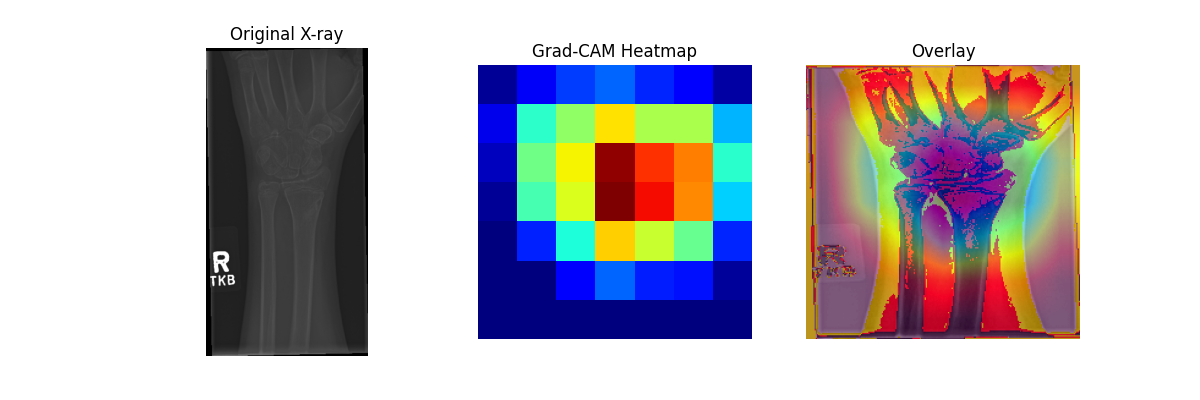
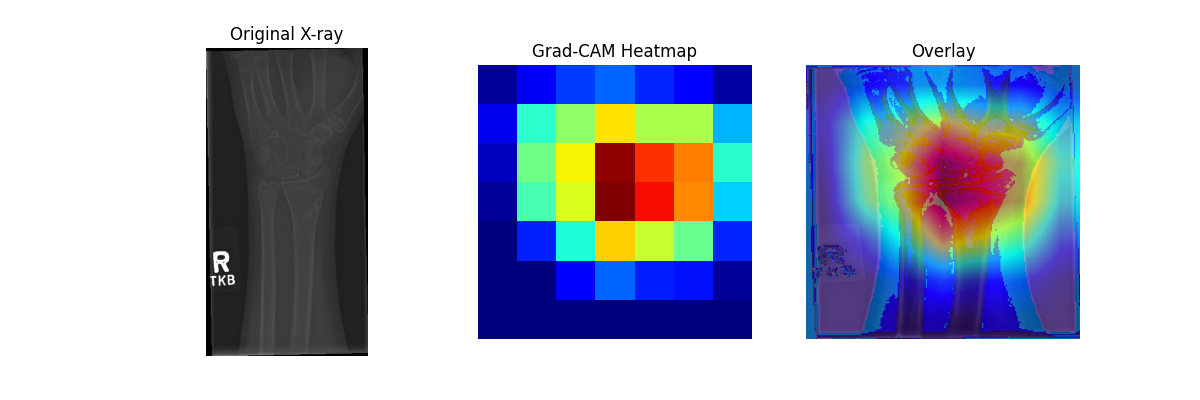
fixed overlay to match the heatmap color scheme

Changed region(s): [[0.6475, 0.15, 0.925, 0.87]]

diff --git a/src/evaluate.py b/src/evaluate.py
@@ -229,16 +229,21 @@ def evaluate_hybrid(model: FractureNet, dataset, device, p_low: float = .22, ent
   return summary, (y_true.tolist(), y_sys.tolist(), probs, ents, areas)
 
 def overlay_cam(cam, image):
-  cam = cam.cpu().numpy()
-  cam = cv2.resize(cam, (image.shape[2], image.shape[1]))
-  cam = np.uint8(255 * cam)
+    cam = cam.cpu().numpy()
+    cam = cv2.resize(cam, (image.shape[2], image.shape[1]))
+    cam_u8 = np.uint8(255 * cam)
 
-  heatmap = cv2.applyColorMap(cam, cv2.COLORMAP_JET)
-  image = image.permute(1, 2, 0).cpu().numpy()
-  image = np.uint8(255 * image)
-  
-  overlay = 0.4 * heatmap + 0.6 * image
-  return np.uint8(overlay)
+    heatmap_bgr = cv2.applyColorMap(cam_u8, cv2.COLORMAP_JET)
+
+    img = image.permute(1, 2, 0).cpu().numpy()
+    img = np.uint8(255 * img)
+
+    overlay_bgr = cv2.addWeighted(heatmap_bgr, 0.6, img, 0.4, 0)
+
+    # ✅ Convert to RGB for matplotlib
+    overlay_rgb = cv2.cvtColor(overlay_bgr, cv2.COLOR_BGR2RGB)
+    return overlay_rgb
+
 
 def load_original_grayscale(dataset, index):
   abs_path = dataset.df.iloc[index]['abs_path']
